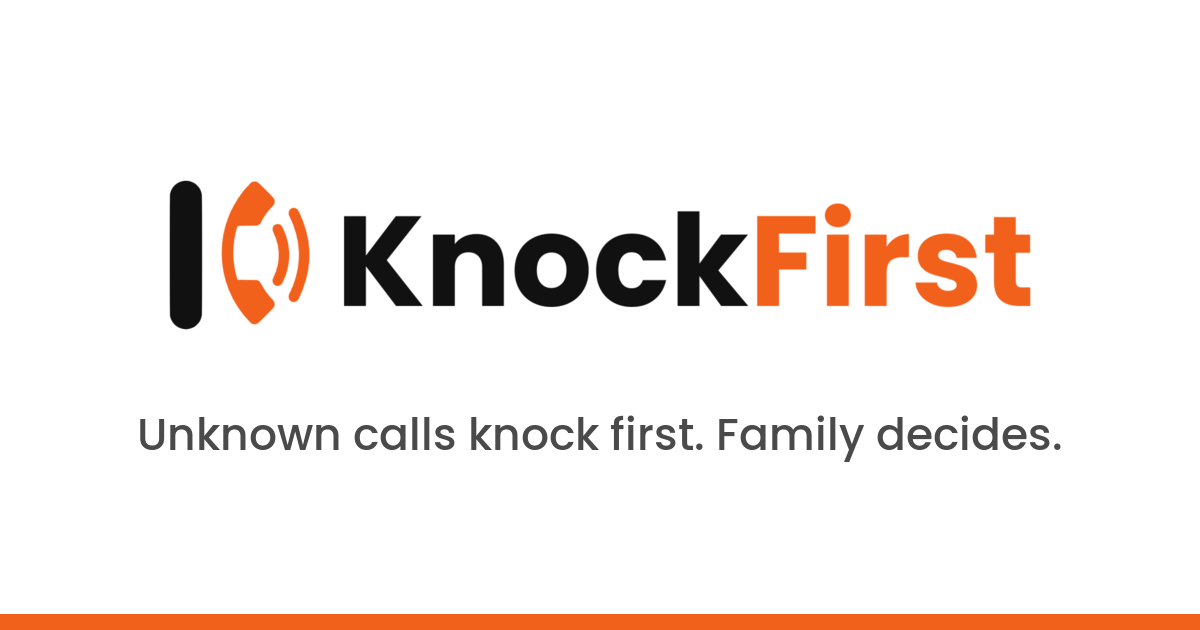
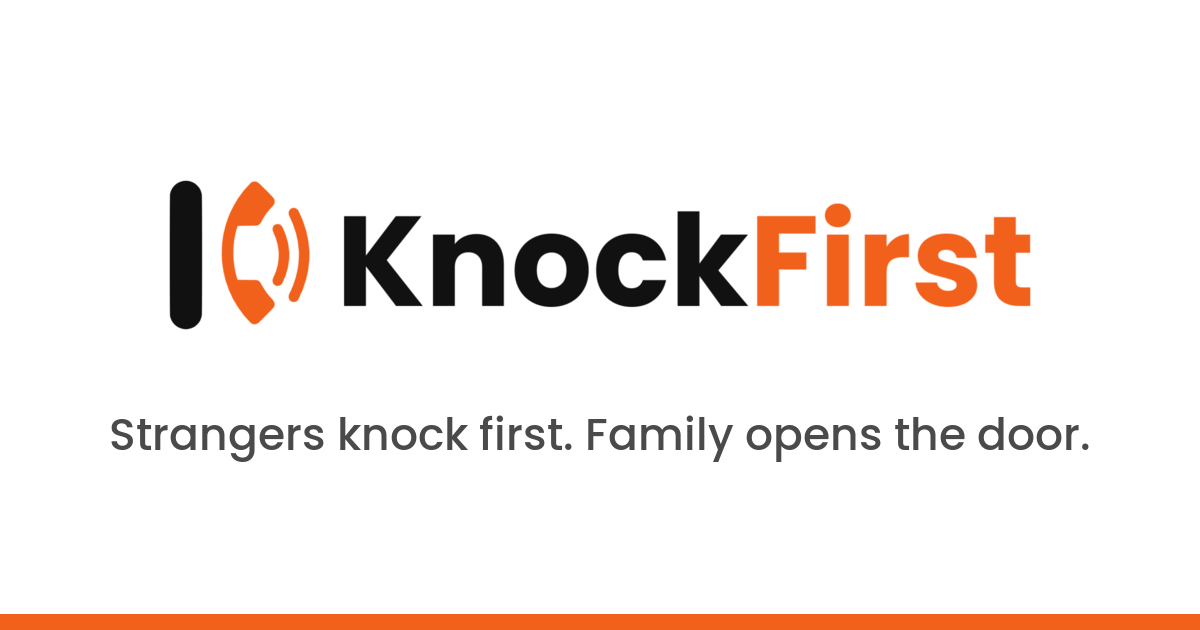
brand: update-04 tagline in colors.md + og-image

Changed region(s): [[0.0925, 0.6635, 0.8942, 0.754]]

diff --git a/brand/colors.md b/brand/colors.md
@@ -1,8 +1,9 @@
 # KnockFirst brand kit
 
 **Name:** KnockFirst
-**Tagline (EN):** "Unknown calls knock first. Family decides."
-**Alt taglines for the deck:** "Strangers knock. Family answers." · "สายแปลกต้องเคาะก่อน ลูกหลานช่วยกรอง"
+**Tagline (EN):** "Strangers knock first. Family opens the door."
+**Tagline (TH):** "คนแปลกหน้าต้องเคาะประตูก่อน ลูกหลานเป็นคนเปิด"
+**Alt taglines for the deck:** "Unknown calls knock first. Family decides." · "Strangers knock. Family answers."
 
 The mark is a "K": a solid bar (the door) plus a ringing handset (the caller knocking).
 
